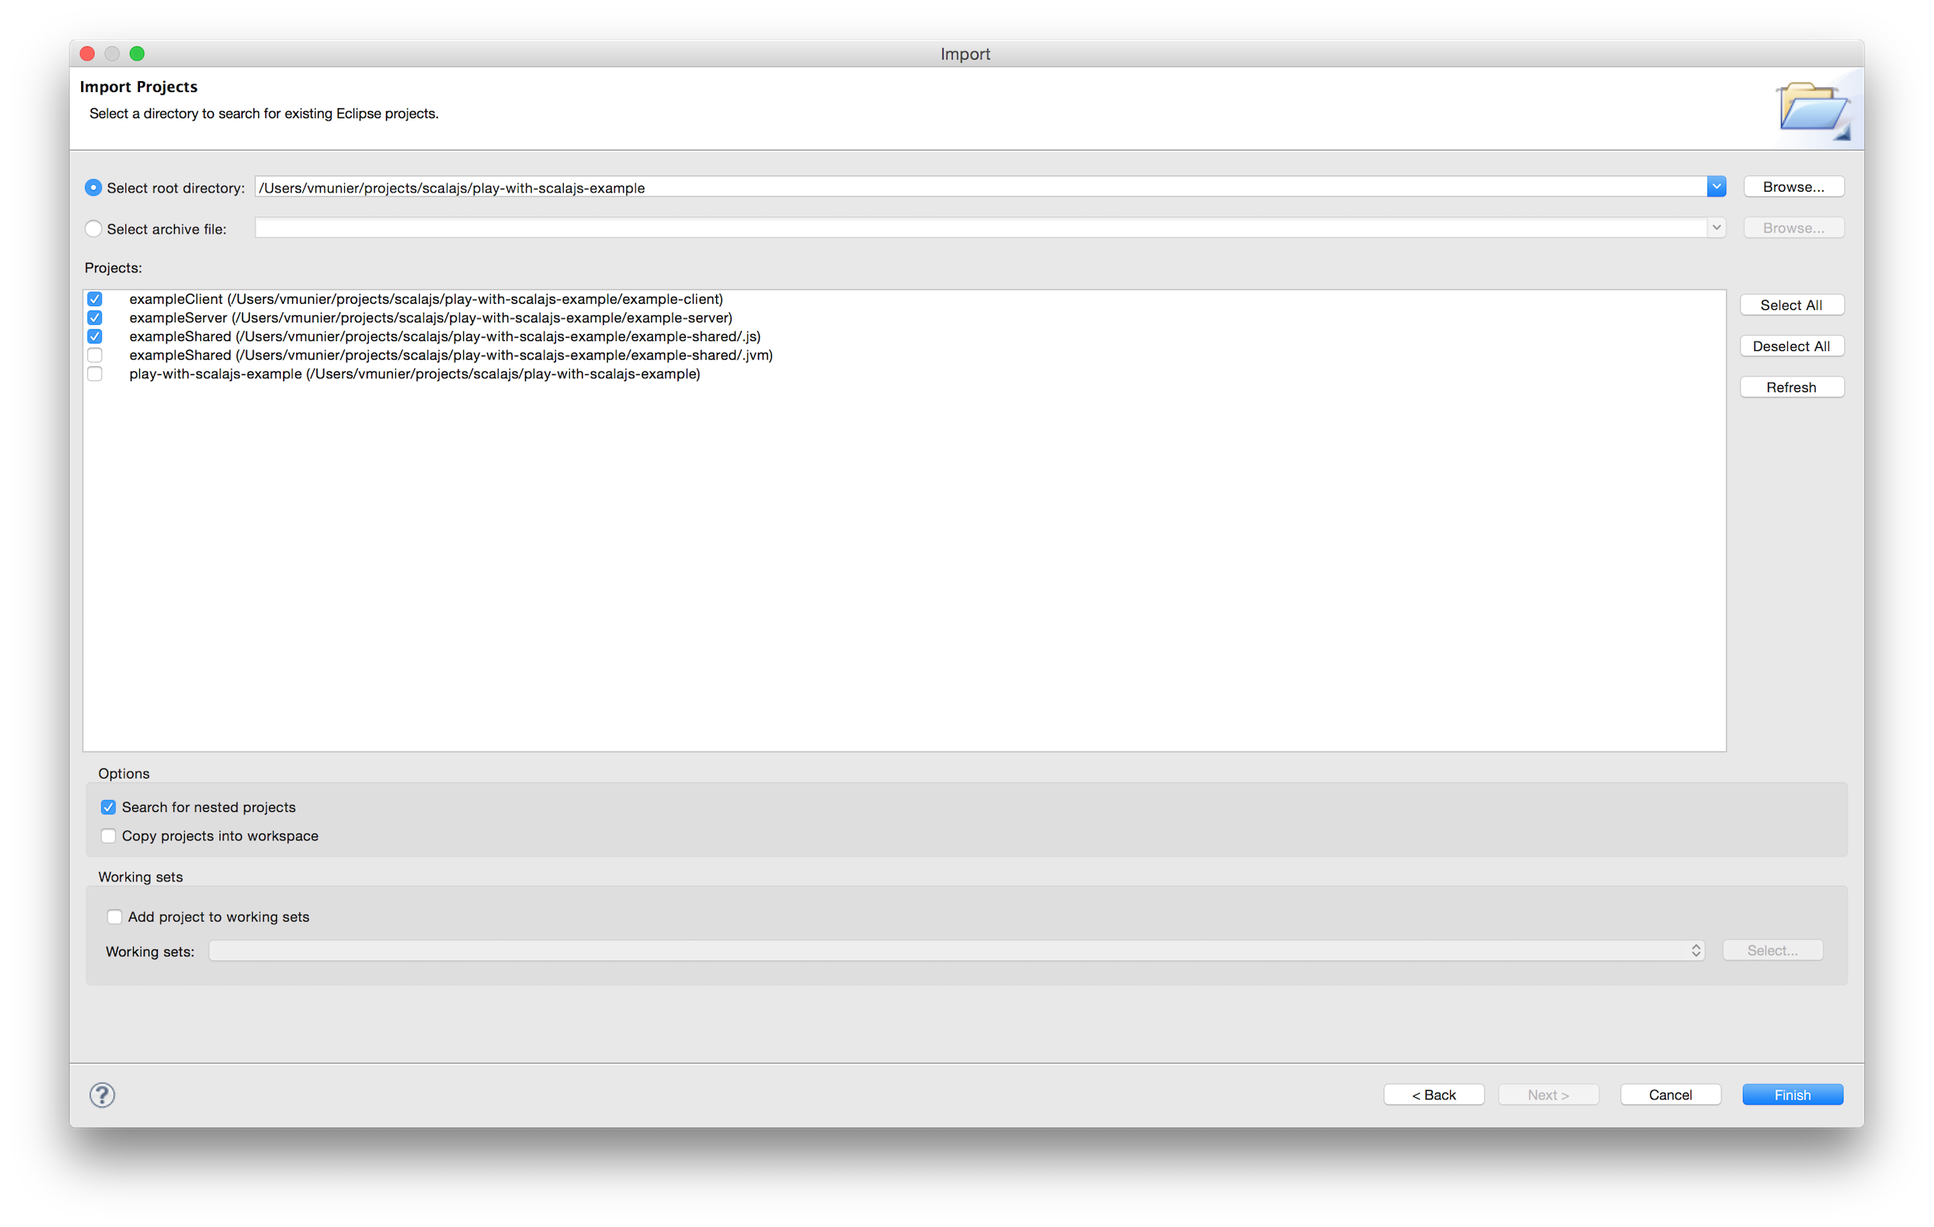
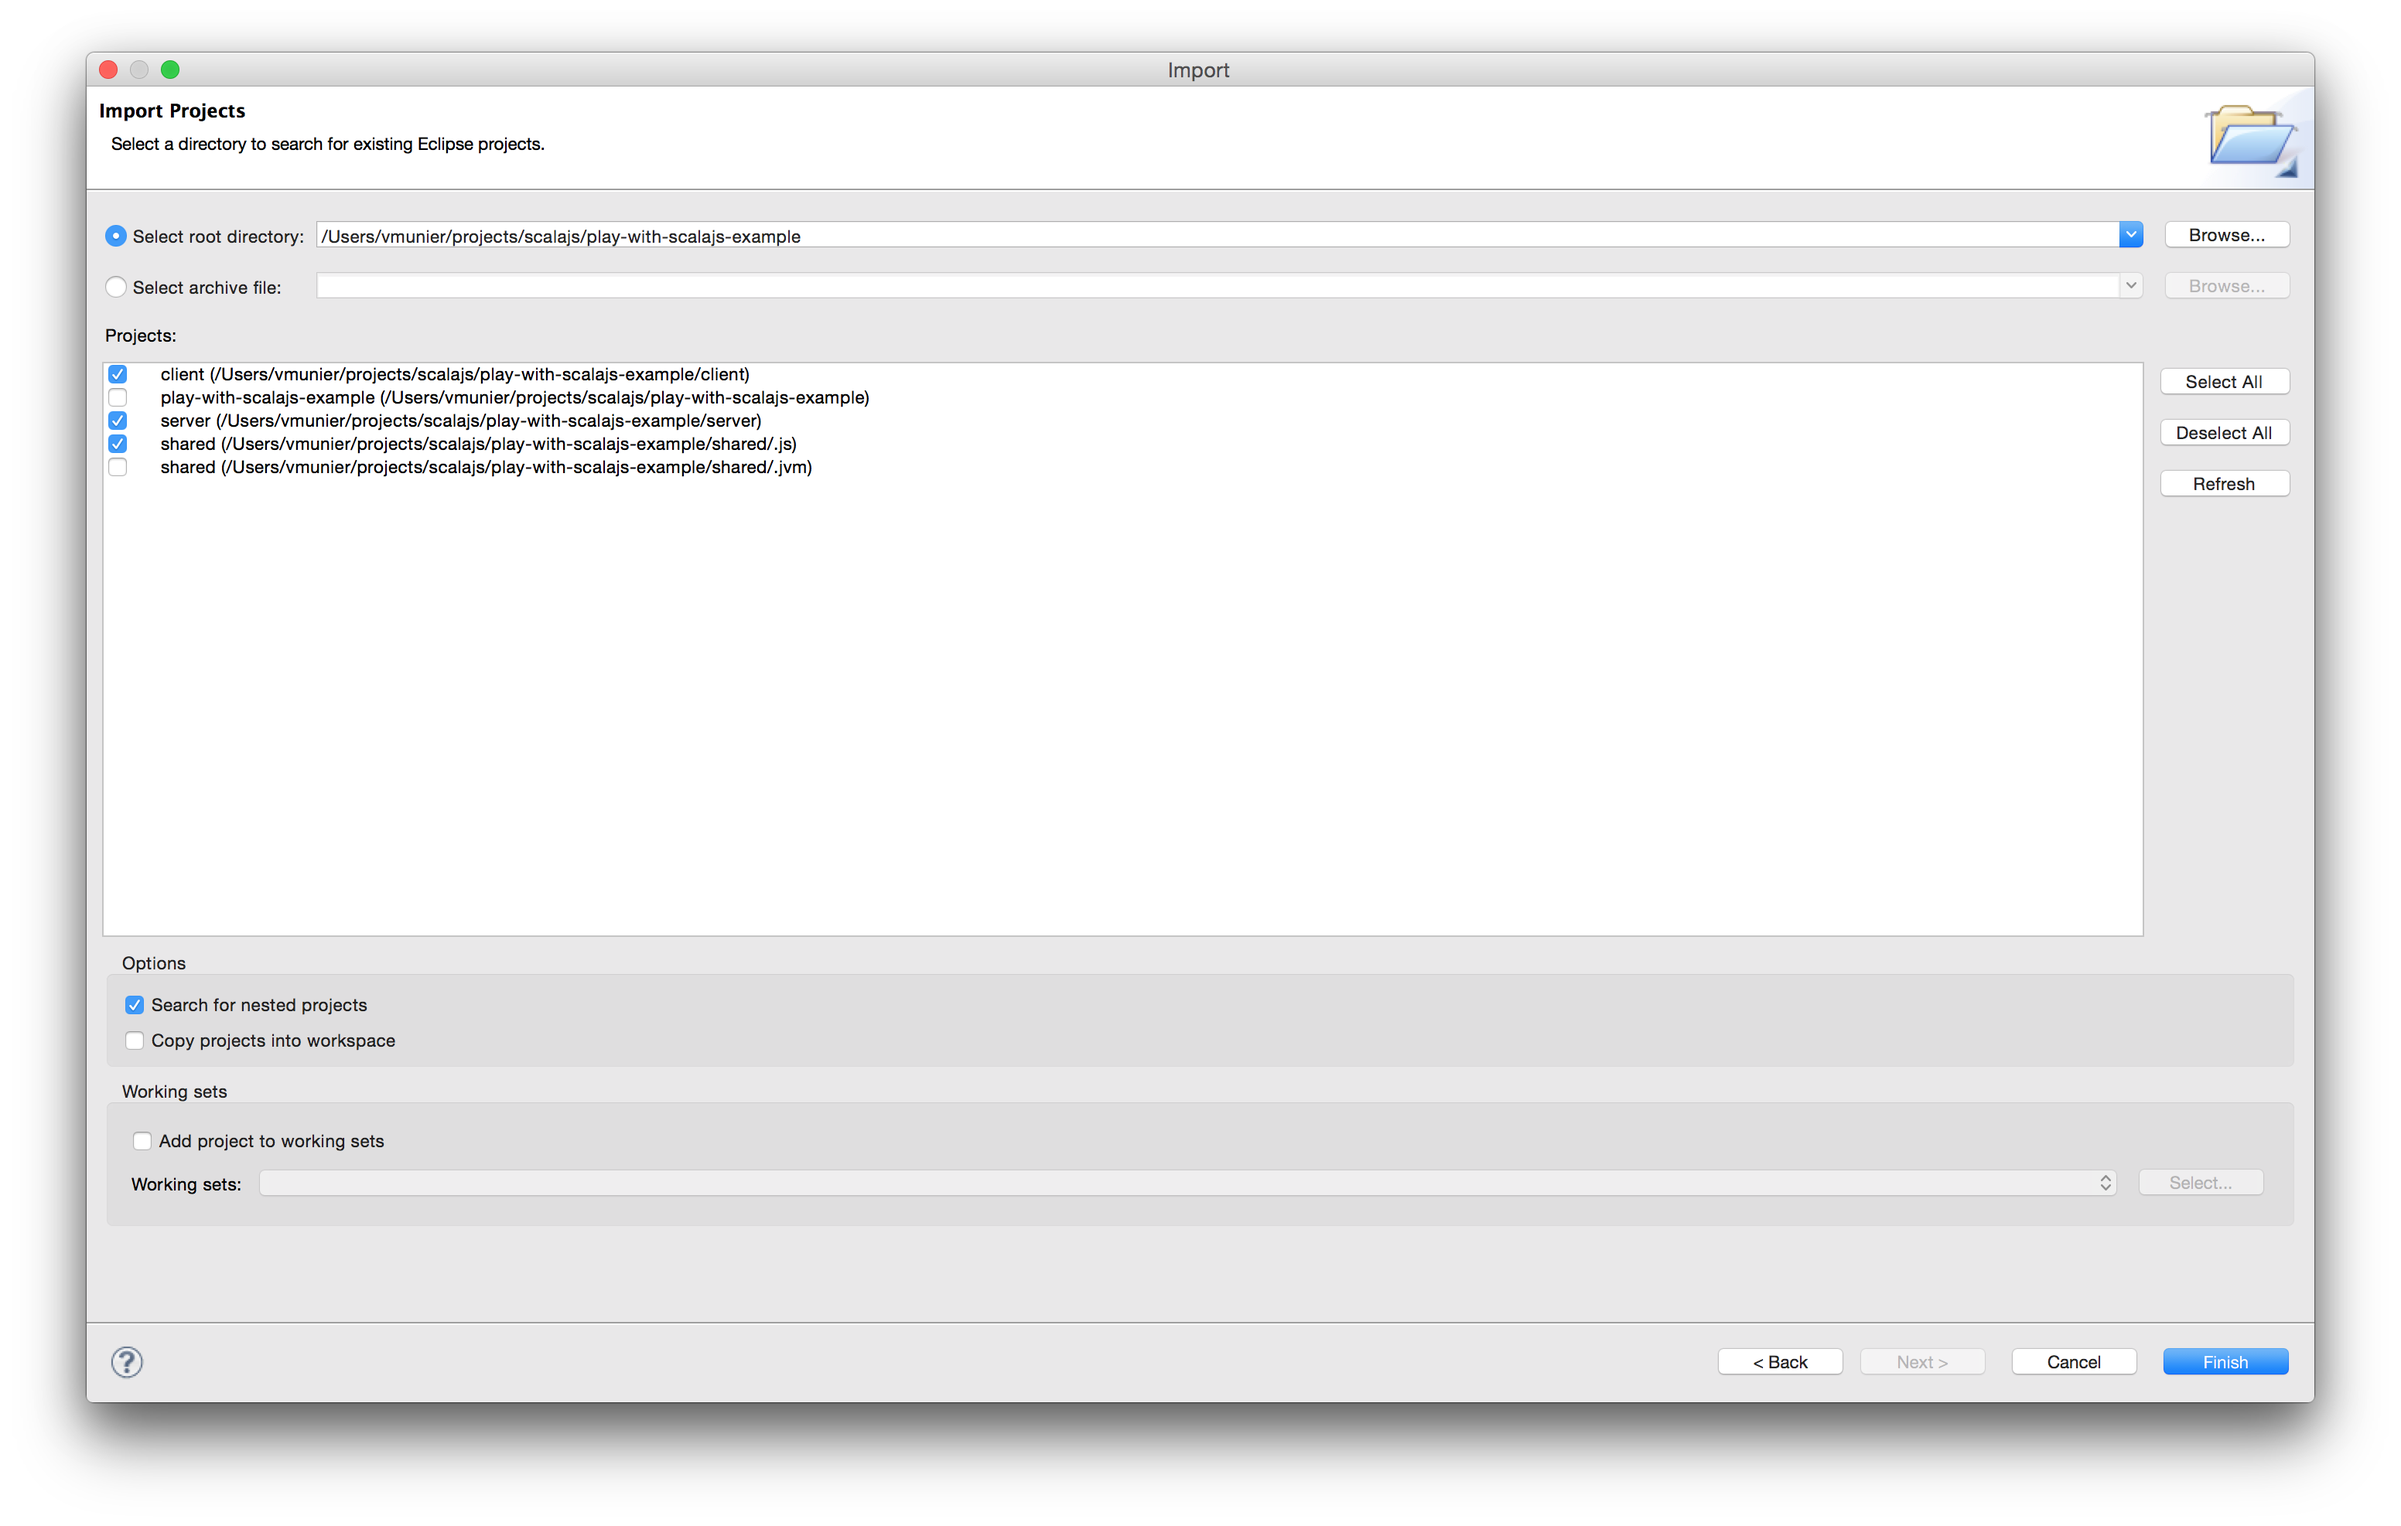
Rename projects to server, client and shared.

Changed region(s): [[0.0312, 0.0309, 0.9668, 0.9263]]

diff --git a/server/app/views/main.scala.html b/server/app/views/main.scala.html
@@ -11,6 +11,6 @@
   </head>
   <body>
    @content
-   @playscalajs.html.scripts("exampleClient")
+   @playscalajs.html.scripts("client")
   </body>
 </html>

diff --git a/README.md b/README.md
@@ -5,9 +5,9 @@
 This is a simple example application showing how you can integrate a Play project with a Scala.js project.
 
 The application contains three directories:
-* `example-server` Play application (server side)
-* `example-client` Scala.js application (client side)
-* `example-shared` Scala code that you want to share between the server and the client
+* `server` Play application (server side)
+* `client` Scala.js application (client side)
+* `shared` Scala code that you want to share between the server and the client
 
 ## Run the application
 ```shell
@@ -35,11 +35,12 @@ The application uses the [sbt-play-scalajs](https://github.com/vmunier/sbt-play-
 ### Eclipse
 
 1. `$ sbt eclipse`
-2. Inside Eclipse, `File/Import/General/Existing project...`, choose the root folder. Uncheck the last two checkboxes to only import exampleClient, exampleServer and one exampleShared, click `Finish`. ![Alt text](screenshots/eclipse-play-with-scalajs-example.png?raw=true "eclipse play-with-scalajs-example screenshot")
+2. Inside Eclipse, `File/Import/General/Existing project...`, choose the root folder. Uncheck the second and the last checkboxes to only import client, server and one shared, click `Finish`. ![Alt text](screenshots/eclipse-play-with-scalajs-example.png?raw=true "eclipse play-with-scalajs-example screenshot")
 
 ### IntelliJ
 
-In IntelliJ, `File/Import Project...`, choose the root folder, `Import project from external model/SBT/Finish`.
+In IntelliJ, open Project wizard, select `Import Project`, choose the root folder and click `OK`.
+Select `Import project from external model` option, choose `SBT project` and click `Next`. Select additional import options and click `Finish`.
 Make sure you use the IntelliJ Scala Plugin v1.3.3 or higher. There are known issues with prior versions of the plugin.
 
 ## Deployment
